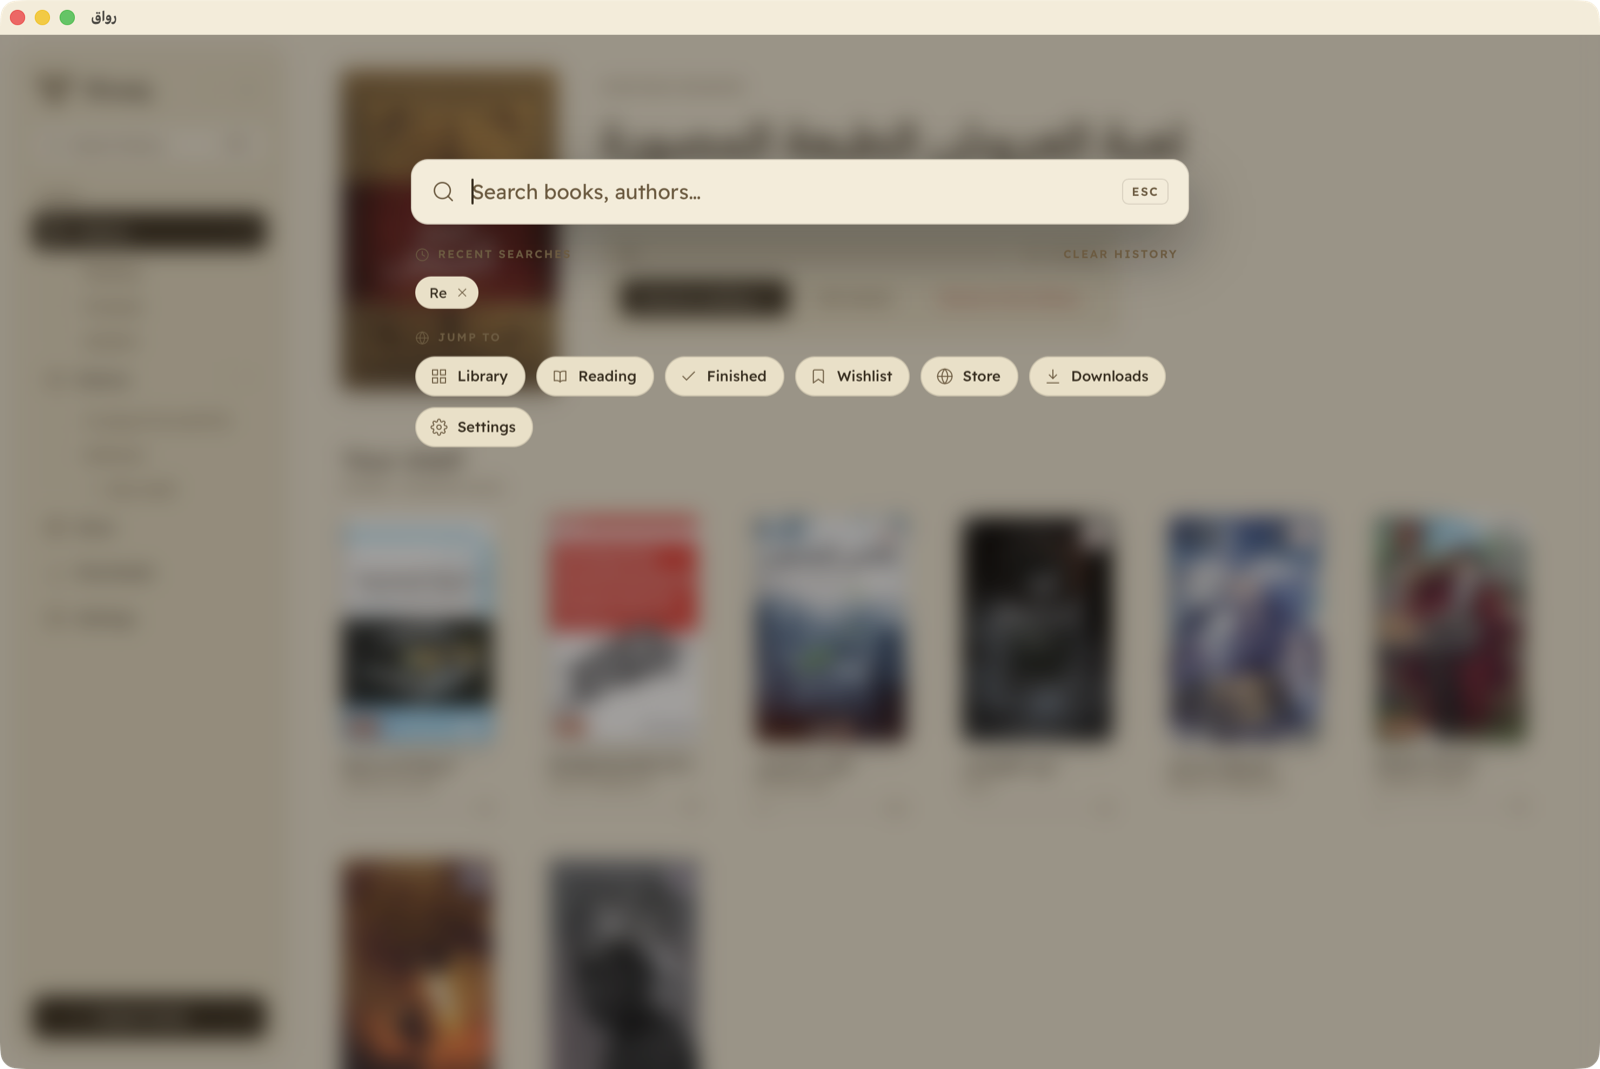
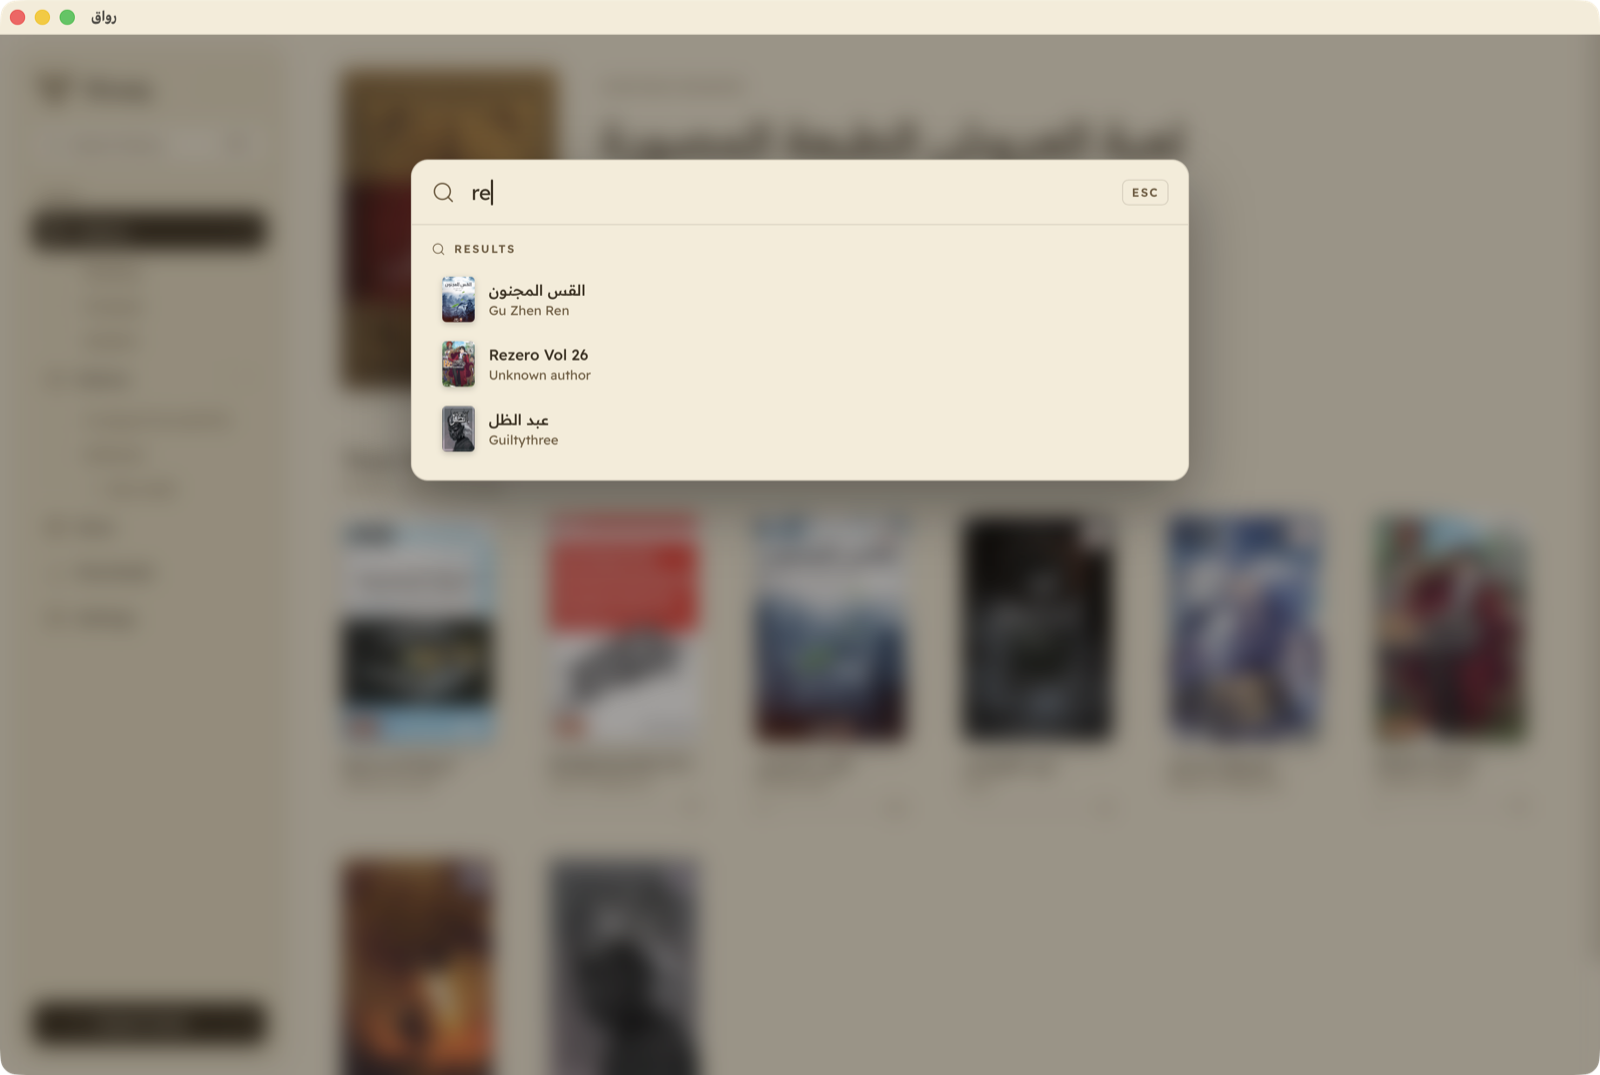
docs(readme): retake the search screenshots for the new palette
The palette body used to be transparent, so in the old capture the result
rows painted onto the blurred library behind the scrim and read as washed
out — the screenshot was showing the contrast bug that #72 then fixed.

Retaken now that the whole palette is one opaque `paper` card: the results
state replaces the previous shot, and the empty state earns its own place
in the gallery for the Jump-to row.

Changed region(s): [[0.25, 0.1543, 0.75, 0.4939], [0.25, 0.9878, 0.3125, 1.0], [0.2188, 0.463, 0.25, 0.5248]]

diff --git a/README.md b/README.md
@@ -101,9 +101,11 @@ and the sidebar moves to the right, icons flip, and every label follows.
 
 Reading progress on every cover, format badges for PDF and Word, source badges for novels,
 status filters (Reading / Finished / Wishlist), and your own shelves for anything else.
-`⌘K` opens a command palette over the whole app.
 
-![Command palette](docs/screenshots/desktop/16-search.png)
+`⌘K` opens a command palette over the whole app — search books and authors as you type, or
+jump straight to any view.
+
+![Searching the library from the command palette](docs/screenshots/desktop/16-search.png)
 
 ### ⬇ Downloads that survive a restart
 
@@ -159,7 +161,7 @@ converted on import, with a step to pick the cover and review images first.
   </tr>
   <tr>
     <td width="50%"><img src="docs/screenshots/desktop/10-store-sources.png" alt="Sources"/><br/><b>Sources</b> — the sites Riwaq can browse</td>
-    <td width="50%"></td>
+    <td width="50%"><img src="docs/screenshots/desktop/21-search-jump.png" alt="Jump to"/><br/><b>Jump to</b> — reach any view from the palette</td>
   </tr>
 </table>
 
